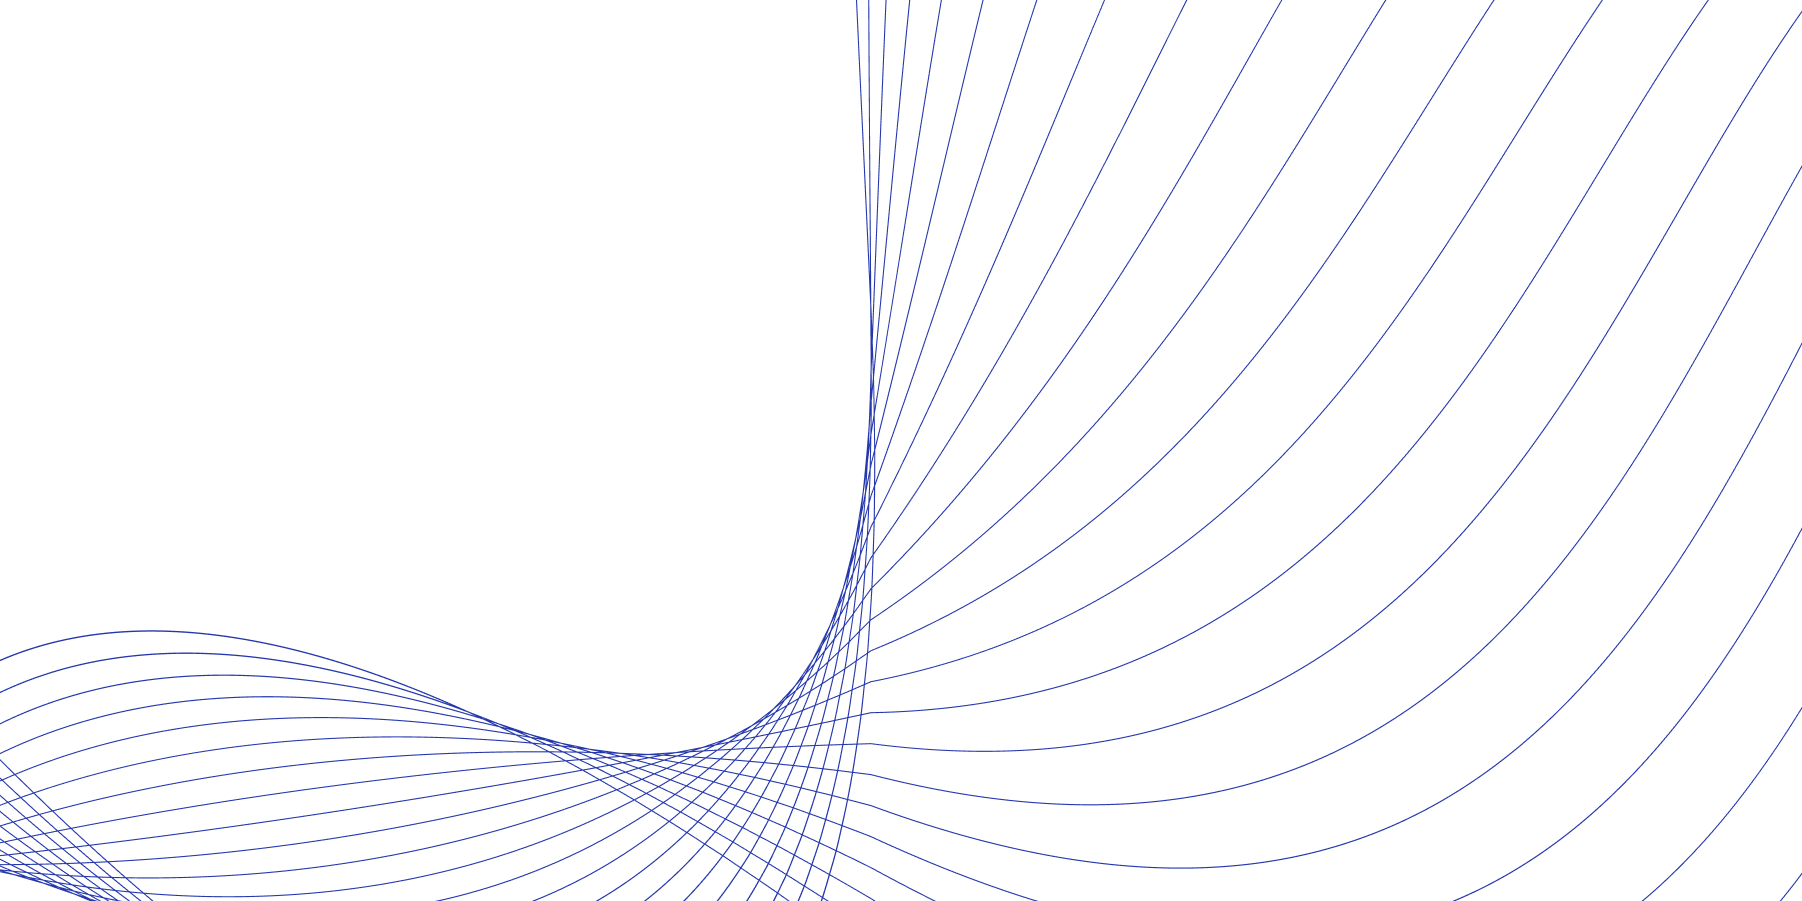
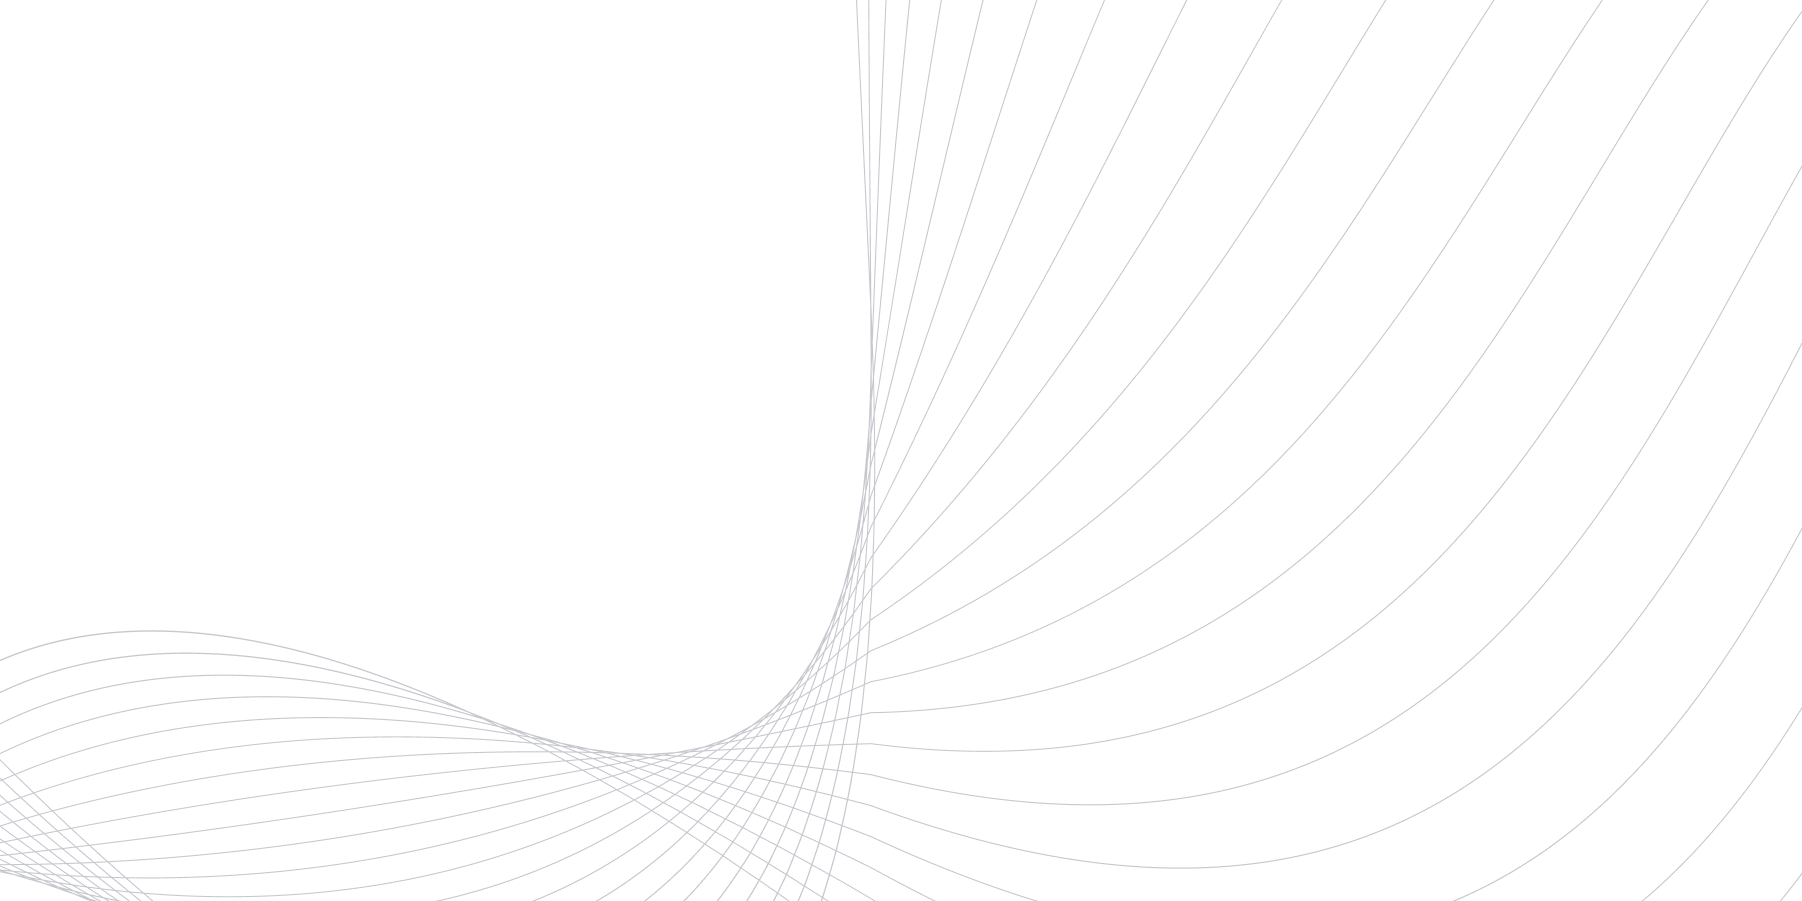
feat: lines behind team section

diff --git a/src/css/styles.css b/src/css/styles.css
@@ -799,8 +799,19 @@ section {
   margin: 10em 0 5em 0;
   width: 100%;
   display: flex;
-  flex-direction: column; }
+  flex-direction: column;
+  position: relative;
+  overflow: hidden; }
+  .team .teams-shape {
+    position: absolute;
+    top: 0;
+    left: 0;
+    width: 100%;
+    height: auto;
+    z-index: 1;
+    opacity: 50%; }
   .team .team-container {
+    z-index: 2;
     width: 70%;
     margin: 4em auto;
     display: flex;
@@ -822,7 +833,9 @@ section {
           border: 1px solid #E3DBD8;
           width: 100%;
           padding: 1em 2em;
-          border-radius: 20px; }
+          border-radius: 20px;
+          z-index: 3;
+          background-color: #FFFFFF; }
           .team .team-container .team-details .team-text .team-object .team-object-text {
             display: flex;
             justify-content: space-evenly;
@@ -857,7 +870,7 @@ section {
           background-color: #FFFFFF;
           border-radius: 20px;
           width: fit-content;
-          padding: 0.5em;
+          padding: 0.5em 1em;
           display: flex;
           justify-content: space-between;
           align-items: center;

diff --git a/src/sass/sections/_team.scss b/src/sass/sections/_team.scss
@@ -7,8 +7,21 @@
     width: 100%;
     display: flex;
     flex-direction: column;
+    position: relative;
+    overflow: hidden;
+
+    .teams-shape {
+        position: absolute;
+        top: 0;
+        left: 0;
+        width: 100%;
+        height: auto;
+        z-index: 1;
+        opacity: 50%;
+    }
 
     .team-container {
+        z-index: 2;
         width: 70%;
         margin: 4em auto;
         display: flex;
@@ -34,6 +47,8 @@
                     width: 100%;
                     padding: 1em 2em;
                     border-radius: 20px;
+                    z-index: 3;
+                    background-color: $white;
 
                     .team-object-text {
                         display: flex;
@@ -86,7 +101,7 @@
                     background-color: $white;
                     border-radius: 20px;
                     width: fit-content;
-                    padding: 0.5em;
+                    padding: 0.5em 1em;
                     display: flex;
                     justify-content: space-between;
                     align-items: center;

diff --git a/src/index.html b/src/index.html
@@ -409,6 +409,7 @@
             </div>
         </section>
         <section class="team">
+            <img src="assets/images/team-shape.png" alt="" class="teams-shape">
             <div class="team-container">
                 <div>
                     <span class="icon-brochures"></span><span class="section-title">Our Coaching</span>
